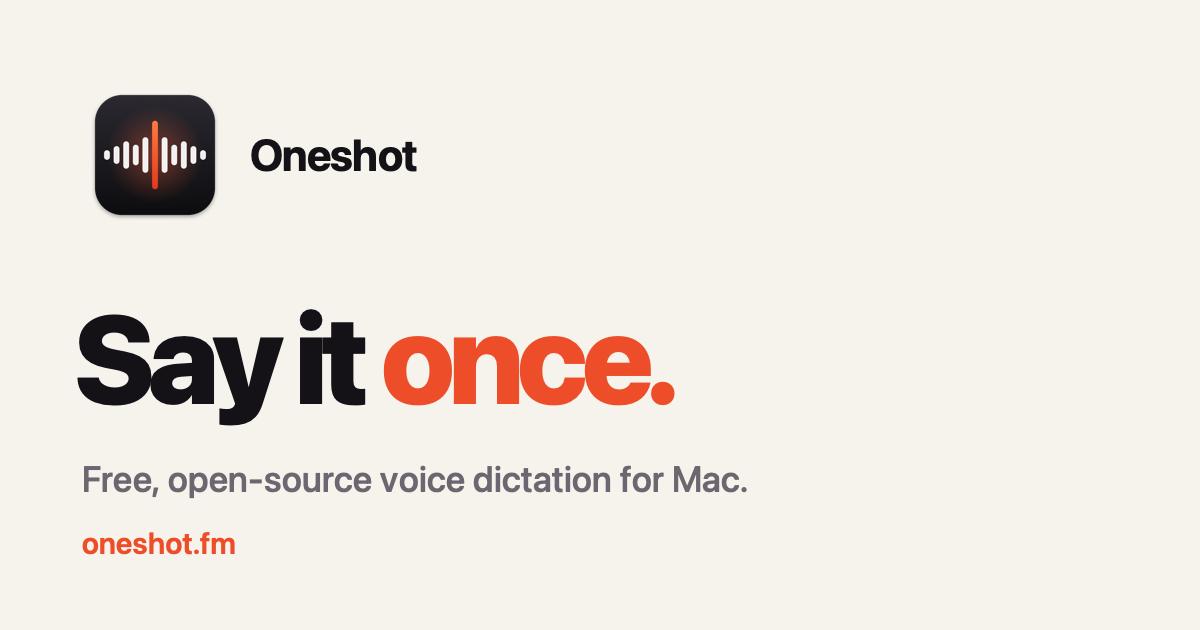
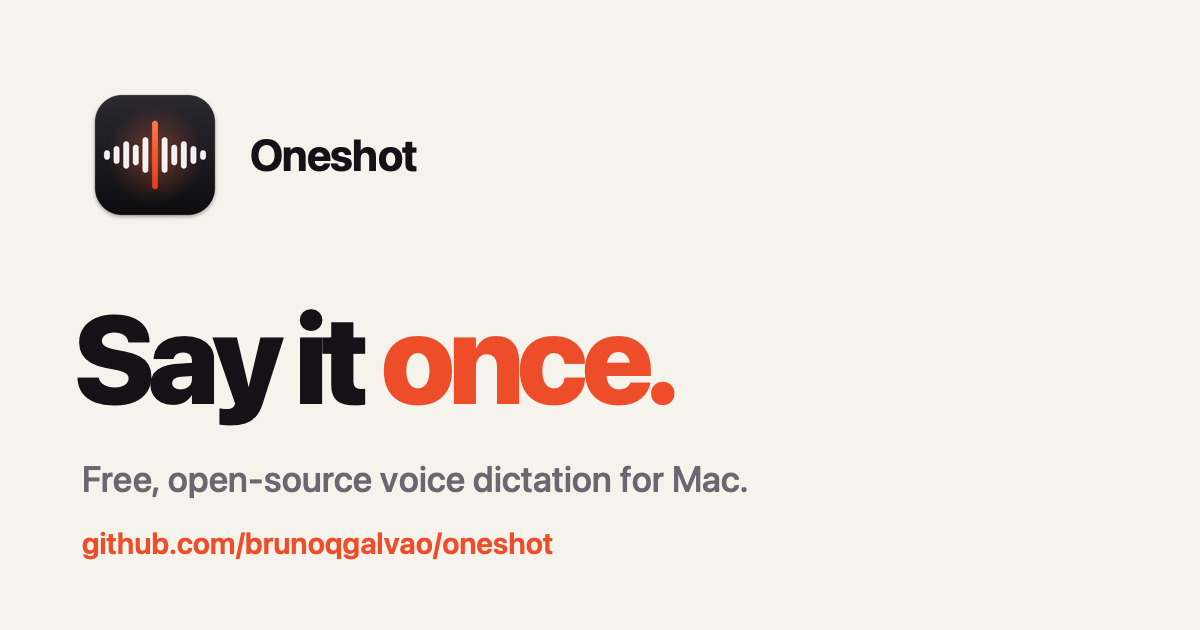
Point site, README and installer at the live server

Changed region(s): [[0.0617, 0.8444, 0.4625, 0.9048]]

diff --git a/server/public/index.html b/server/public/index.html
@@ -74,7 +74,7 @@
       <a class="btn primary" href="https://github.com/brunoqgalvao/oneshot/releases/latest/download/Oneshot.zip">Download for Mac</a>
       <a class="btn ghost" href="https://github.com/brunoqgalvao/oneshot">★ Star on GitHub</a>
     </div>
-    <div class="install"><span>curl -fsSL https://oneshot.fm/install.sh | sh</span><button onclick="navigator.clipboard.writeText('curl -fsSL https://oneshot.fm/install.sh | sh');this.textContent='Copied'">Copy</button></div>
+    <div class="install"><span>curl -fsSL https://murmur-dictation.fly.dev/install.sh | sh</span><button onclick="navigator.clipboard.writeText('curl -fsSL https://murmur-dictation.fly.dev/install.sh | sh');this.textContent='Copied'">Copy</button></div>
     <div class="meta">macOS 13+ · Apple silicon · 30 free minutes a day, or bring your own OpenAI key</div>
     <div class="stage"><video src="/demo.mp4" autoplay muted loop playsinline></video></div>
   </header>

diff --git a/README.md b/README.md
@@ -1,12 +1,12 @@
 <p align="center"><img src="server/public/icon.png" width="96" alt="Oneshot"></p>
 <h1 align="center">Oneshot</h1>
 <p align="center"><b>Say it once.</b> Free, open-source voice dictation for Mac.</p>
-<p align="center"><a href="https://oneshot.fm">oneshot.fm</a> · <a href="https://github.com/brunoqgalvao/oneshot/releases/latest">Download</a></p>
+<p align="center"><a href="https://murmur-dictation.fly.dev">Website</a> · <a href="https://github.com/brunoqgalvao/oneshot/releases/latest">Download</a></p>
 
 Hold a key, talk like you normally talk, and clean, punctuated text lands wherever your cursor is: Slack, Gmail, Cursor, Notion, the terminal.
 
 ```sh
-curl -fsSL https://oneshot.fm/install.sh | sh
+curl -fsSL https://murmur-dictation.fly.dev/install.sh | sh
 ```
 
 ## What it does
